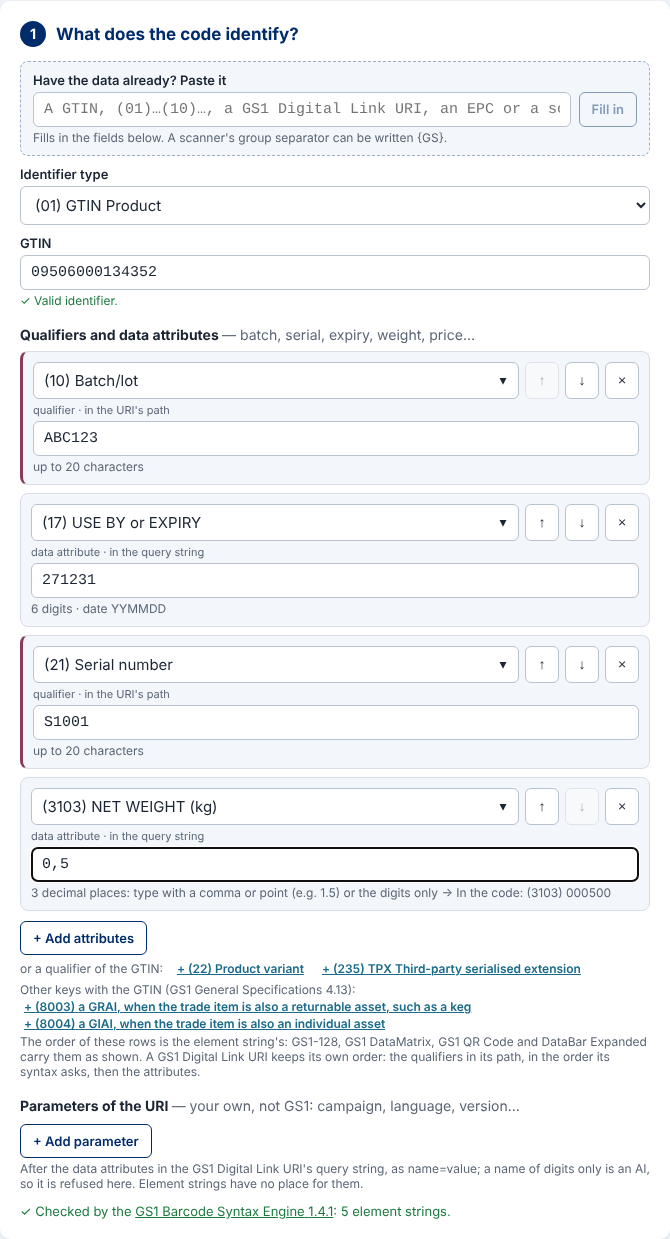
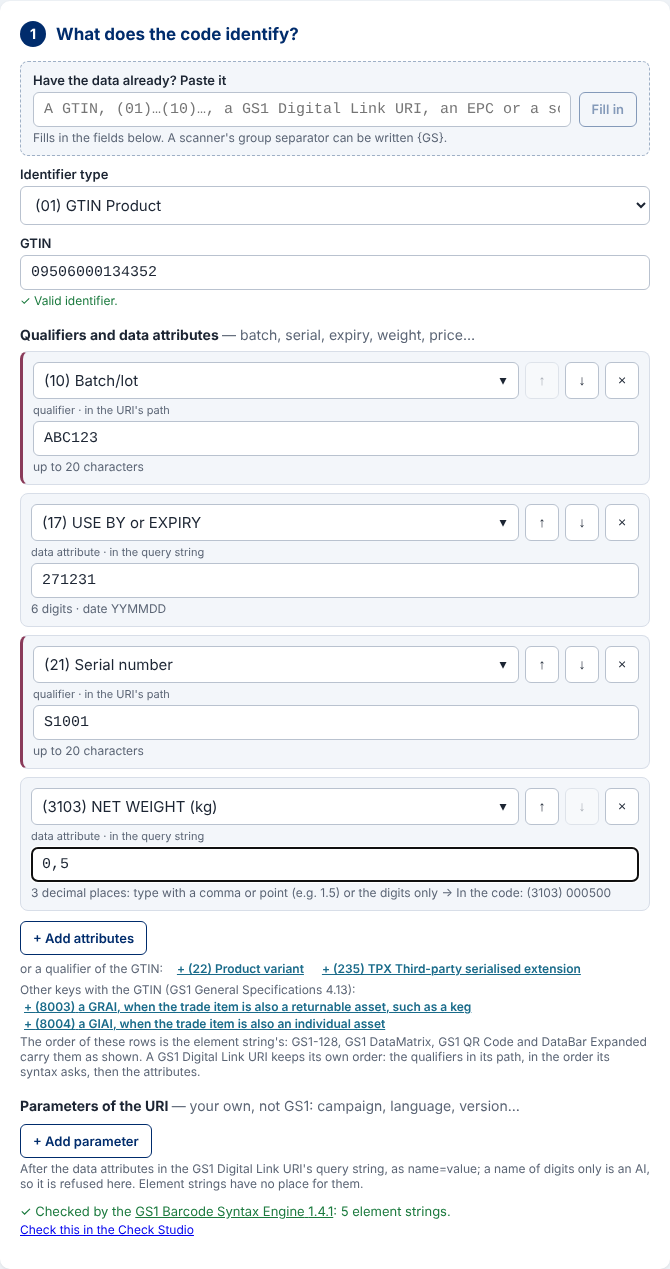
docs: the Check Studio's result in features, the user guide, ADR 0007, the backlog and the inventory (2,659 tests)
Claude-Session: https://claude.ai/code/session_01AV1osrG3Hw8RNJmSRvNecZ

diff --git a/docs/features.md b/docs/features.md
@@ -117,7 +117,8 @@ Which standard each follows: [conformance](conformance.md).
 | A code checked: the catalogue of faults and the check of one reading (the Check Studio's engine; no screen yet) | Backlog 7.1 b, ADR 0007: the project's 77 faults in ten groups as data, each with its severity, General Specifications sections and four English texts; `check()` finds the carrier's faults (group A: a plain Data Matrix, QR Code or Code 128 carrying element strings, the flag typed as text, a separator for the leading FNC1, a URI in a GS1 symbol, ITF that is not ITF-14, a non-GS1 symbol) and the structure's (group B: parentheses, spaces and titles, a separator missing, extra or written as text, an unknown AI, a wrong length, a forbidden character, an AI twice, the order, GS1-128's 48 characters), every fault of a symbol with the bytes it points at, and the data made right when a named repair makes it valid | `154ff4f` | `check`: A1 (datamatrix) · `check`: B3 (datamatrix) · `check`: covers every symbology · `check`: the project's worked example · `check`: reports every fault in one symbol · `check`: points at bytes, not characters · `faults`: holds the project's 77 codes |
 | A code checked: the key, the values, the associations and GS1 Digital Link URIs (the Check Studio's engine; no screen yet) | Backlog 7.1 c, ADR 0007: given the reading context, a GCP table and today, `check()` gives the check digit that would be right, a GTIN's indicator against its measure and the point of sale, restricted, coupon, book and example prefixes, the company prefix against the user's table; day 00 and the date it stands for (an Error in regulated healthcare), a date that reads right re-ordered, dates against today by the century rule, a batch or serial number likely to be mis-keyed, a measure of zero with its unit; the AIs an association names with their titles; in a URI, short names, a compressed URI, a raw slash or percent sign, qualifiers out of order, an attribute in the path, http and other schemes, the canonical form, each mended URI given; every engine message named by a fault or listed with its reason (`docs/conformance.md`, 3.2) | `560f8cf` | `check`: C1: the check digit that would be right · `check`: C6: restricted circulation · `check`: C8: a company prefix · `check`: D2 and D3 · `check`: D5: expiry before production · `check`: E1 and E2 name both AIs · `check`: G2: qualifiers out of order · `check`: G7: valid but not canonical · `check`: G9: short names · `engine-map`: place every message in one list · `faults`: lists every fault with its severity |
 | A code checked in its context, a tag's EPC, and several carriers of one item (the Check Studio's engine; no screen yet) | Backlog 7.1 d, ADR 0007: given the reading context, `check()` holds the symbol to that context's specification table and lists the symbols it allows for the data, recommended first as step 2 does; a 2D symbol alone at a retail till, an add-on, an EAN/UPC asked for attributes; "I do not know" lists the context's checks as not assessed, never as passed; an RFID tag's EPC (classic or EPC+) decoded, its header, reserved filter and partition checked, its data through the engine; an NFC tag's URI first, in a URI record, with https; `checkGroup()` compares several readings of one item in a matrix, one row per AI and one column per carrier, character by character: different keys or values, an EPC or NFC tag that disagrees with the barcodes (a serial an SGTIN-96 cannot hold said so), attributes whose key is in another symbol, a retail pack without its linear symbol, a case's GS1-128 data missing from its 2D symbol, a logistic label that contradicts itself, a non-GS1 symbol | `fb553c9` | `check-group`: the same reading gives different verdicts · `check-group`: F1 lists the symbols allowed · `check-group`: I2: a reserved filter · `check-group`: I3: the URI not in the first record · `check-group`: an EAN-13, a GS1 DataMatrix and an SGTIN-96 · `check-group`: C9 and E1 of a reading are resolved · `check-group`: J8 compares host |
-| The start page and the studios' addresses | Backlog 7.1 e, ADR 0007: the address of the tool opens on its studios as cards; the Label Studio (`#/label`, the editor as before) and the Barcode Studio (`#/barcode`, the same editor with the barcode alone) are links, the RFID Studio and the Check Studio named and marked coming soon; the name in the header leads back; Back and Forward move between studios and what was typed is kept; the installed application offers both studios as shortcuts | `474fa24` | `studios`: the root offers the studios · `studios`: the keyboard reaches each studio · `studios`: back and forward move between studios · `studios`: the installed application offers · `routes`: parseRoute › the root, with or without a hash |
+| The start page and the studios' addresses | Backlog 7.1 e, ADR 0007: the address of the tool opens on its studios as cards; the Label Studio (`#/label`, the editor as before) and the Barcode Studio (`#/barcode`, the same editor with the barcode alone) are links, the RFID Studio named and marked coming soon (the Check Studio too, until 7.1 f); the name in the header leads back; Back and Forward move between studios and what was typed is kept; the installed application offers both studios as shortcuts | `474fa24` | `studios`: the root offers the studios · `studios`: the keyboard reaches each studio · `studios`: back and forward move between studios · `studios`: the installed application offers · `routes`: parseRoute › the root, with or without a hash |
+| The Check Studio's result | Backlog 7.1 f, ADR 0007: at `#/check`, what a code holds pasted or typed (a scanner in keyboard mode), the symbol it came from and where it is scanned (eight places, two with a follow-up question) checked by the core's `check()`; the simple view gives the verdict with an icon and a word, what the code says with the data titles in the user's language, a card per finding (what, where with the code's text highlighted, why it matters, how to fix and who does it; *Make it right* opening the Barcode Studio with the data made right) and what was not checked; the expert view the reading, the bytes in hexadecimal and as text with three copy buttons, the element strings, the other syntaxes, the findings with their codes, sections and the engine's English message beside its translation, the context and the versions; the 77 faults told in plain words in six languages; the editor's Identify card links to the studio with its data | `1555ccc` | `check-result`: the worked example · `check-result`: choosing where the code is scanned · `check-result`: Make it right · `check-result`: the result in Portuguese · `check-result`: the editor's Identify card · `check-studio`: cover every fault · `check-studio`: maps each choice |
 
 ## Exports and prepress
 

diff --git a/docs/test-inventory.md b/docs/test-inventory.md
@@ -1,6 +1,6 @@
 # Inventory of features from the tests
 
-Every test of the core's suite, of the web application's unit tests and of the editor's browser tests on 2026-11-16: 2,651 tests in 61 files. Each line is a test's name, a sentence that says what is true when it passes; together they say what the studio does and that it works. Each feature of [features.md](features.md) names the tests that prove it. Generated by `node scripts/inventory.mjs` from a complete run of the core's tests and the list of the browser tests ([ADR 0005](adr/0005-documentation-and-feature-inventory.md)); do not edit by hand.
+Every test of the core's suite, of the web application's unit tests and of the editor's browser tests on 2026-11-16: 2,659 tests in 63 files. Each line is a test's name, a sentence that says what is true when it passes; together they say what the studio does and that it works. Each feature of [features.md](features.md) names the tests that prove it. Generated by `node scripts/inventory.mjs` from a complete run of the core's tests and the list of the browser tests ([ADR 0005](adr/0005-documentation-and-feature-inventory.md)); do not edit by hand.
 
 Every unit test ran and passed in the run that wrote this file, the ZPL printed by Labelary included (`LABELARY=1`), but the documents' own test (`docs`), which checks this file and runs right after it is written. The browser tests are listed by Playwright and run by CI against the built application, on a desktop, a phone and a tablet held horizontally (a test about one layout is skipped in the others).
 
@@ -13,11 +13,11 @@ Every unit test ran and passed in the run that wrote this file, the ZPL printed 
 | [In bulk: rows, the report, sequences, generation](#in-bulk-rows-the-report-sequences-generation) | `batch`, `bulk`, `report`, `sequence`, `table` | 167 |
 | [Printers: the dot grid, profiles, ZPL, TSPL, EPL2, DPL, PPLA and PPLB](#printers-the-dot-grid-profiles-zpl-tspl-epl2-dpl-ppla-and-pplb) | `argox`, `dots`, `labelary`, `printer`, `printlangs`, `zpl` | 257 |
 | [RFID, NFC and digital signatures](#rfid-nfc-and-digital-signatures) | `epc`, `epcPlus`, `ndef`, `sign` | 1,286 |
-| [The Check Studio: a code read to be checked](#the-check-studio-a-code-read-to-be-checked) | `check`, `check-group`, `engine-map`, `faults`, `reading` | 159 |
+| [The Check Studio: a code read to be checked](#the-check-studio-a-code-read-to-be-checked) | `check`, `check-group`, `check-studio`, `engine-map`, `faults`, `reading` | 162 |
 | [The work saved on one's own computer and opened again](#the-work-saved-on-ones-own-computer-and-opened-again) | `lastwork`, `opened`, `work` | 9 |
 | [The interface's languages: English, Brazilian Portuguese, Spanish, French, German, Italian](#the-interfaces-languages-english-brazilian-portuguese-spanish-french-german-italian) | `i18n` | 15 |
 | [The documents](#the-documents) | `docs` | 7 |
-| [The editor in the browser (Playwright, desktop, phone and tablet)](#the-editor-in-the-browser-playwright-desktop-phone-and-tablet) | `routes`, `tour`, `editor`, `layouts`, `studios` | 145 |
+| [The editor in the browser (Playwright, desktop, phone and tablet)](#the-editor-in-the-browser-playwright-desktop-phone-and-tablet) | `routes`, `tour`, `check-result`, `editor`, `layouts`, `studios` | 150 |
 
 ## Input and identification: the Syntax Engine, keys, qualifiers, attributes
 
@@ -2700,6 +2700,14 @@ Every unit test ran and passed in the run that wrote this file, the ZPL printed 
 
 </details>
 
+<details><summary><code>check-studio</code> — 3 tests (<code>apps/web/test/check-studio.test.ts</code>)</summary>
+
+- the simple view's texts › cover every fault of the catalogue, and nothing else
+- the simple view's texts › are one sentence each, with an AI never named by its number alone
+- where the code is scanned › maps each choice and its follow-up to a scanning environment, I do not know to null
+
+</details>
+
 <details><summary><code>engine-map</code> — 7 tests (<code>packages/core/test/engine-map.test.ts</code>)</summary>
 
 - the engine's messages and the faults they stand for › are the messages of the engine release in use
@@ -2848,6 +2856,16 @@ Every unit test ran and passed in the run that wrote this file, the ZPL printed 
 - the tour's ring › is the part of the target inside the window
 - the tour's stops › on a computer, the three steps, the label's parts and the header's buttons, ending on the tour's own button
 - the tour's stops › on a phone or a tablet, each destination opened before it is pointed at, ending on More
+
+</details>
+
+<details><summary><code>check-result</code> — 5 tests (<code>apps/web/e2e/check-result.spec.ts</code>)</summary>
+
+- the worked example: the verdict, three cards in order, the positions highlighted, then the expert panels
+- choosing where the code is scanned re-runs the checks on the same data
+- Make it right opens the Barcode Studio with the data made right
+- the result in Portuguese, the engine's English message beside its translation
+- the editor's Identify card links to the Check Studio with its data
 
 </details>
 

diff --git a/docs/user-guide.md b/docs/user-guide.md
@@ -62,14 +62,44 @@ English.
 
 ### The start page: the studios
 
-![The start page: the Label Studio and the Barcode Studio, the RFID Studio and the Check Studio coming soon](images/guide/start.png)
+![The start page: the Label Studio, the Barcode Studio and the Check Studio, the RFID Studio coming soon](images/guide/start.png)
 
 The address of the tool opens on its studios. **Label Studio** opens the editor below with the kinds of label shown;
-**Barcode Studio** opens the same editor with the barcode alone. The **RFID Studio** and the **Check Studio** (which
-will read a barcode or a tag and say whether it follows the GS1 rules) are marked *Coming soon*. Each studio has its
-own address, to bookmark or to open from the installed application's shortcuts: `#/label`, `#/barcode`. The name in
-the header always leads back to the studios; the browser's Back and Forward move between them, and what you typed in
-the editor is kept while you look at another studio.
+**Barcode Studio** opens the same editor with the barcode alone; **Check Studio** checks a code you already have (see
+below). The **RFID Studio** is marked *Coming soon*. Each studio has its own address, to bookmark or to open from the
+installed application's shortcuts: `#/label`, `#/barcode`, `#/check`. The name in the header always leads back to the
+studios; the browser's Back and Forward move between them, and what you typed in the editor is kept while you look at
+another studio.
+
+### The Check Studio: is a code right?
+
+![The Check Studio with the worked example: the verdict, what the code says and three cards](images/guide/check.png)
+
+1. Open **Check Studio** on the start page (or `#/check`).
+2. Under **What the code holds**, paste or type what the code carries, or scan it with a scanner connected as a
+   keyboard. A separator can be typed as `<GS>`, `{GS}` or `\x1D`. **Try an example** fills in the example of the
+   project: an ordinary Data Matrix with the brackets encoded and a month 13.
+3. Under **The symbol it came from**, say which symbol it was, when you know; a scanner that sends its symbology
+   identifier (`]d2`, `]Q3`, `]C1`…) at the start says it by itself. *Not known* lets the data decide.
+4. Under **Where is it scanned?**, choose the place: a shop, a medicine or medical device (then the pharmacy, the
+   pharmacy and warehouse, or a hospital), a case, a pallet, the part itself, a phone, an asset, or *I do not know*.
+   Changing it checks the same data again. Without it, whether the symbol suits its place is listed as not checked.
+5. **The result** opens in the **Simple** view: the verdict with its icon and word (*Follows the GS1 rules*, *Works,
+   with remarks*, *Does not follow the GS1 rules*, *Not a GS1 code*), what the code says (each data title in your
+   language with its value, a date written out), then a card per problem, the worst first, each saying what is wrong,
+   where (the code's text with the part highlighted), why it matters and how to fix it, and who does it. When the data
+   can be made right, **Make it right** opens the Barcode Studio with it. **What was not checked** ends the list; print
+   quality is never graded here, since that needs a barcode verifier.
+6. **Expert** shows the same result in detail: the reading (the symbology identifier and the repairs tried), the raw
+   bytes in hexadecimal and as text with the problems' bytes highlighted and three copy buttons, the element strings,
+   the other syntaxes (bracketed, the engine's notation, the GS1 Digital Link URI) when the data is valid, each finding
+   with its code, the General Specifications sections, the GS1 Barcode Syntax Engine's own message in English beside
+   its translation, the context, and the versions that checked it.
+
+![The expert view of the same result](images/guide/check-expert.png)
+
+In the editor, once the data is checked, **Check this in the Check Studio** under the Identify step opens the studio
+with that data, as a GS1 DataMatrix would carry it. Nothing you check leaves the page.
 
 ### The editor
 

diff --git a/docs/developer-guide.md b/docs/developer-guide.md
@@ -329,6 +329,7 @@ that say what is true; together they are the [inventory of features](test-invent
 | `check` | The Check Studio's check of one reading: each fault of groups A and B drawn in a symbol by bwip-js, read back by ZXing and found at its bytes; every symbol the studio makes found clean; the project's worked example; several faults in one symbol; the repairs; the key, the values, the associations and GS1 Digital Link URIs (groups C, D, E, G) | 91 |
 | `engine-map` | Every message of the Syntax Engine and every linter's named by a fault of the Check Studio, or listed with the reason none applies | 7 |
 | `check-group` | The Check Studio's context (group F), tags (group I) and several carriers of one item (group J), with the matrix of the project's section 5.3 | 18 |
+| `check-studio` | The Check Studio's result screen: the 77 faults told in plain words, one sentence each, and the places a code is scanned mapped to scanning environments | 3 |
 | `faults` | The Check Studio's catalogue: the project's 77 codes and no other, each with its severity, four texts and a source; the table of `docs/conformance.md`, 3.2 | 9 |
 | `reading` | The Check Studio's reading record: what ZXing reads of every carrier, measured and held to `docs/conformance.md`; a scanner's text, an NFC tag, an EPC | 34 |
 | `render` | PNG, PDF and zip against the resolver, PDFs drawn by pdftoppm | 20 |
@@ -355,6 +356,7 @@ that say what is true; together they are the [inventory of features](test-invent
 | `layouts` | the computer's, the phone's and the tablet's layouts, installing the app, About (Playwright) | 10 |
 | `routes` | the studios' addresses: the start page, each studio, a shared link's query, the editor's anchors (apps/web/test) | 4 |
 | `studios` | the start page and the studios' addresses in a browser: one tap to the editor, the keyboard, back and forward, what was typed kept, the shortcuts (Playwright) | 5 |
+| `check-result` | the Check Studio's result in a browser: the worked example's verdict, cards and expert panels, the place re-running the checks, Make it right, Portuguese, the Identify card's link (Playwright) | 5 |
 | `printlangs` | TSPL, EPL2 and DPL rendered by Labelize and read back; what they refuse | 130 |
 | `argox` | PPLA and PPLB as the DPL and EPL2 files Argox's manual allows, read back; what they refuse | 27 |
 

diff --git a/docs/adr/0007-check-studio.md b/docs/adr/0007-check-studio.md
@@ -79,6 +79,18 @@ to put it right.
    without the slash is one of the editor's anchors, as before. The editor stays in the page, hidden, while another
    studio is shown, so that its state survives without being stored.
 
+12. **One result, two depths, the simple view first** (7.1 f). The result screen at `#/check` takes what a code holds
+   pasted or typed (a scanner in keyboard mode types into the same field), the symbol it came from (a scanner's
+   identifier at the start says it by itself) and where it is scanned, eight places of the project's section 3.6, two
+   with a follow-up question, mapped to a scanning environment; "I do not know" is the default answer, so that a check
+   is never marked down for a context nobody gave. Mock-up A of two was taken (the owner's rule, open to change): a
+   Simple / Expert switch at the head of the result, both views drawn from the same findings; B put the verdict and the
+   data beside the cards and the expert view folded at the end. The 77 faults are told in plain words in the web
+   application (`apps/web/src/checkTexts.ts`: what, why, how to fix and who), through `t()` in six languages; the
+   catalogue's texts stay the expert's, in English, shown as such in the expert view beside the engine's English
+   message and its translation. *Make it right* opens the Barcode Studio with the data a repair made valid; the
+   editor's Identify card links to the studio with its data, as a GS1 DataMatrix would carry it (`#/check?s=]d2&d=`).
+
 ## 3. Consequences
 
 - The scan test of the label studio keeps `textMode: "HRI"`: it compares what a label carries with

diff --git a/README.md b/README.md
@@ -872,7 +872,12 @@ now. 6.10 (the assistant, 13 November) before 6.4 and 6.5, which follow from it.
   start page offering the studios (mock-up A of two, cards; the RFID and Check Studios marked coming soon until their
   screens exist) and hash routes, `#/label` today's editor unchanged, `#/barcode` the same editor with the barcode
   alone, `#/rfid` and `#/check` reserved; the editor kept drawn behind another studio so that what was typed
-  survives; the installed application's shortcuts*
+  survives; the installed application's shortcuts; 7.1 f under way on 16 November: the result screen at `#/check` (mock-up A of two: a Simple / Expert switch),
+  what a code holds pasted or typed, the symbol it came from and where it is scanned; the simple view (the verdict with
+  an icon and a word, what the code says, a card per fault with what, where, why and how to fix, *Make it right*, what
+  was not checked) and the expert view (the reading, the bytes with copy buttons, the element strings, the other
+  syntaxes, the findings with their codes, sections and the engine's message, the context, the versions); the 77
+  faults told in plain words in six languages; the editor's Identify card links to it*
 
 
 ## Licence
